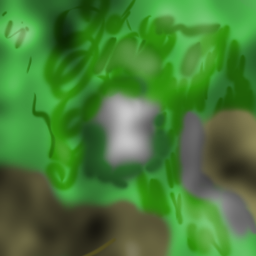
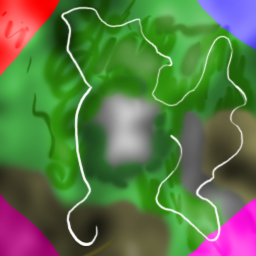
Path according to color map, colors fixed.

diff --git a/src/cube_scene.cpp b/src/cube_scene.cpp
@@ -7,14 +7,54 @@ CubeScene::CubeScene()
 	: _sky(256),
 	  _heightmap(Heightmap::loadFromFile("data/asd"))
 {
-	unsigned int num_points = 40;
-	for(unsigned int i = 0; i < num_points; i++)
-	{
-		float x = std::cos(i * 360.0 / num_points / 180.0 * M_PI) * 128 / 4.0 + 128 / 2;
-		float y = std::sin(i * 360.0 / num_points / 180.0 * M_PI) * 128 / 4.0 + 128 / 2;
-		float z = _heightmap.heightAt(x, y) + 4.0;
-		_path.addPoint(x, y, z);
-	}
+	_path.addPoint(97, 113.0, 0.0);
+	_path.addPoint(93, 119.5, 0.0);
+	_path.addPoint(85, 122.0, 0.0);
+	_path.addPoint(71, 116.0, 0.0);
+	_path.addPoint(68, 107.0, 0.0);
+	_path.addPoint(89, 94.5, 0.0);
+	_path.addPoint(83, 89.0, 0.0);
+	_path.addPoint(75, 59.0, 0.0);
+	_path.addPoint(91, 43.5, 0.0);
+	_path.addPoint(67, 24.5, 0.0);
+	_path.addPoint(69, 13.5, 0.0);
+	_path.addPoint(63, 7.5, 0.0);
+	_path.addPoint(93, 4.0, 0.0);
+	_path.addPoint(108, 12.5, 0.0);
+	_path.addPoint(138, 9.5, 0.0);
+	_path.addPoint(143, 18.0, 0.0);
+	_path.addPoint(154, 22.5, 0.0);
+	_path.addPoint(157, 26.0, 0.0);
+	_path.addPoint(169, 28.0, 0.0);
+	_path.addPoint(170, 32.0, 0.0);
+	_path.addPoint(158, 34.5, 0.0);
+	_path.addPoint(151, 46.0, 0.0);
+	_path.addPoint(174, 52.0, 0.0);
+	_path.addPoint(193, 45.0, 0.0);
+	_path.addPoint(215, 19.5, 0.0);
+	_path.addPoint(226, 18.0, 0.0);
+	_path.addPoint(232, 25.5, 0.0);
+	_path.addPoint(227, 38.5, 0.0);
+	_path.addPoint(243, 46.0, 0.0);
+	_path.addPoint(245, 51.0, 0.0);
+	_path.addPoint(231, 55.5, 0.0);
+	_path.addPoint(230, 60.5, 0.0);
+	_path.addPoint(241, 65.5, 0.0);
+	_path.addPoint(239, 74.0, 0.0);
+	_path.addPoint(213, 84.5, 0.0);
+	_path.addPoint(213, 88.5, 0.0);
+	_path.addPoint(197, 96.0, 0.0);
+	_path.addPoint(214, 102.5, 0.0);
+	_path.addPoint(217, 118.0, 0.0);
+	_path.addPoint(210, 120.0, 0.0);
+	_path.addPoint(177, 106.0, 0.0);
+	_path.addPoint(163, 104.0, 0.0);
+	_path.addPoint(155, 100.0, 0.0);
+	_path.addPoint(161, 91.0, 0.0);
+	_path.addPoint(180, 78.5, 0.0);
+	_path.addPoint(181, 72.5, 0.0);
+	_path.addPoint(171, 68.0, 0.0);
+
 	_path.smoothen();
 	_path.setHeightsFromHeightmap(_heightmap);
 
@@ -83,7 +123,7 @@ void CubeScene::setupSpace()
 {
 	_space = cpSpaceNew();
 	_space->iterations = 10;
-	_space->gravity = cpv(0, -1500);
+	_space->gravity = cpv(0, -300);
 	
 	_static_body = cpBodyNew(INFINITY, INFINITY);
 
@@ -129,7 +169,9 @@ void CubeScene::update()
 	bool jump_state = _arrow_direction.y > 0;
 
 	if(jump_state && !_last_jump_state && cpvlengthsq(_player_ground_normal))
-		_player_body->v = cpvadd(_player_body->v, cpvmult(cpvslerp(_player_ground_normal, cpv(0.0, 1.0), 0.75), 5));
+	{
+ 		_player_body->v = cpvadd(_player_body->v, cpvmult(cpvslerp(_player_ground_normal, cpv(0.0, 1.0), 0.75), 50));
+	}
 
 	if(_player_ground_shapes->num == 0)
 	{
@@ -205,6 +247,10 @@ void CubeScene::drawCamera()
 
 	float height_at_pos = _heightmap.interpolatedHeightAt(camera_pos.x, camera_pos.y);
 	camera_pos.z = height_at_pos + 10.0;
+
+	camera_pos.x = -5.0;
+	camera_pos.y = -5.0;
+	camera_pos.z = 100.0;
 
 	gluLookAt(
 		camera_pos.x, camera_pos.y, camera_pos.z,

diff --git a/src/image.cpp b/src/image.cpp
@@ -35,12 +35,12 @@ void Image::setTexture() const
 
 Color Image::at(unsigned int x, unsigned int y) const
 {
-	// TODO: RGBA
 	const uint8_t *p = getPixelData() + y * getPitch() + x * getBpp();
 	uint32_t rgba = *reinterpret_cast<const uint32_t*>(p);
-	float r = ((rgba & 0x00ff0000) >> 16) / 255.0;
+	float r = ((rgba & 0x000000ff)) / 255.0;
 	float g = ((rgba & 0x0000ff00) >> 8) / 255.0;
-	float b = ((rgba & 0xff000000) >> 24) / 255.0;
+	float b = ((rgba & 0x00ff0000) >> 16) / 255.0;
+//	float a = ((rgba & 0xff000000) >> 24) / 255.0;
 	return Color(r, g, b);
 }
 

diff --git a/README.md b/README.md
@@ -9,6 +9,7 @@ Trying to make a game for an idea I have.
 ## Heightmap
 
 * Textures.
+* Fix the coordinates.
 
 ## Sky
 
